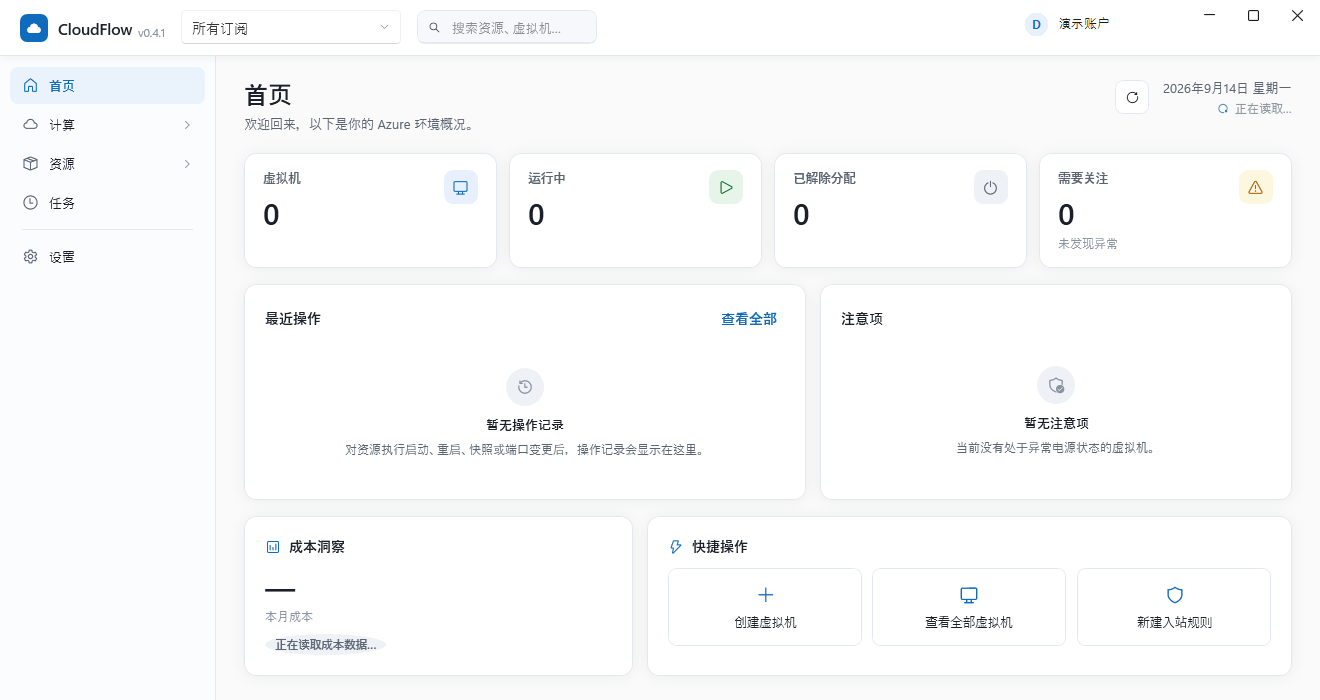
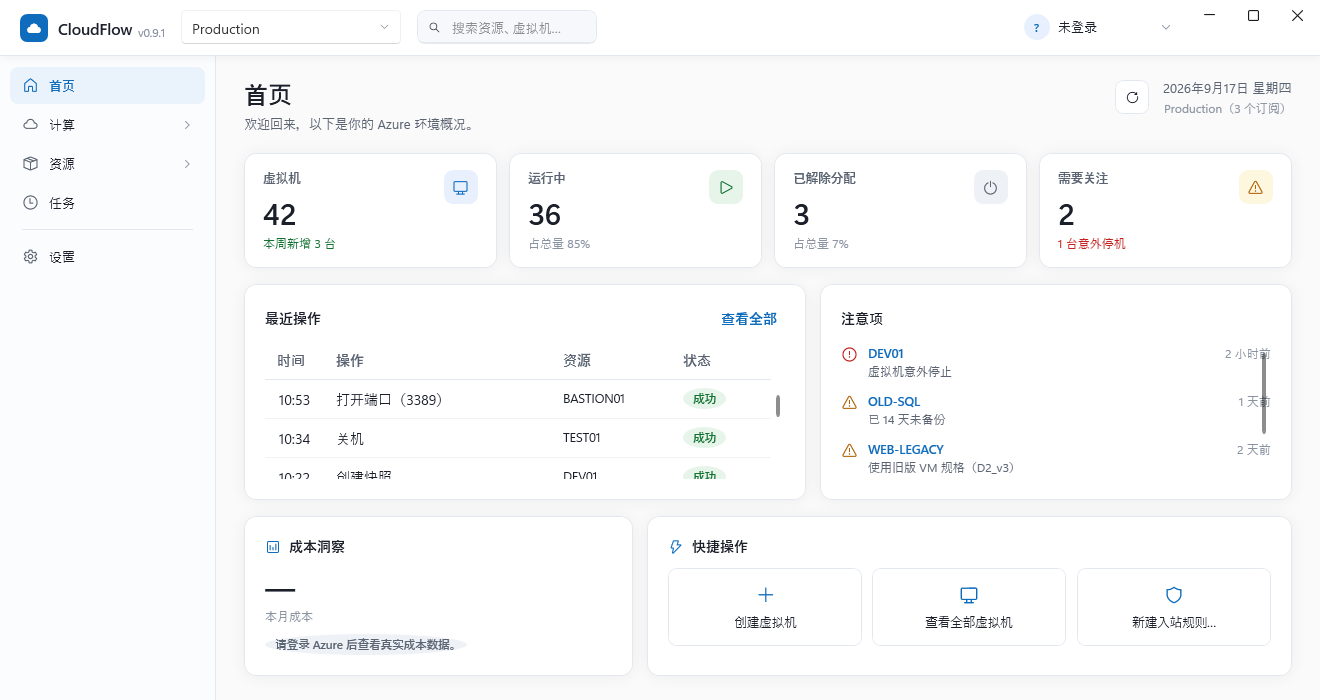
chore: 公开后的仓库卫生——安全政策、换行规范、当前版截图与注释脱敏
仓库转 Public 后补齐的建议项：

- 新增 SECURITY.md：支持版本、私密漏洞报告渠道（GitHub Security Advisory）、
  安全设计要点（凭据存储 / 日志脱敏 / 对外请求披露 / 写操作链路）供审计参考。
- 新增 .gitattributes：文本规范化 + 二进制资产防御性排除。
- README 截图更新为 v0.9.1 当前界面（冷启动演示模式抓图，无任何真实账户信息）。
- 注释脱敏：个人邮箱改为通用占位；真实虚拟机的 DNS FQDN、托管磁盘名改为
  vm-01 示例——这些是公开后有实际指向性的标识符，比裸资源名更值得清理。

diff --git a/src/CloudFlow.App/Views/MainWindow.xaml b/src/CloudFlow.App/Views/MainWindow.xaml
@@ -233,8 +233,8 @@
                                        HorizontalAlignment="Center" VerticalAlignment="Center" />
                         </Border>
                         <!-- MaxWidth 原来是 130：登录名换成邮箱地址后（见 AccountDisplayName 的
-                             注释），比展示名普遍长很多——真实反馈过 piaohongji@live.cn 能完整
-                             显示、piaohongji@outlook.com 却被截断，130px 装不下常见邮箱域名。
+                             注释），比展示名普遍长很多——真实反馈过 name@live.cn 能完整
+                             显示、longer.name@outlook.com 却被截断，130px 装不下常见邮箱域名。
                              调宽到 220，仍保留 TextTrimming 兜底极端情况（配合按钮上已有的
                              AccountToolTip 悬浮提示看完整值）。 -->
                         <TextBlock Text="{Binding AccountDisplayName}" FontSize="13"

diff --git a/src/CloudFlow.App/Views/VmDetailPage.xaml b/src/CloudFlow.App/Views/VmDetailPage.xaml
@@ -878,7 +878,7 @@
                                 </Style>
                             </DataGrid.RowStyle>
                             <DataGrid.Columns>
-                                <!-- 真实托管磁盘名很长（appscloud_OsDisk_1_382bc441bb9b462ea05cfba6e5a40650），
+                                <!-- 真实托管磁盘名很长（vm-01_OsDisk_1_<guid>），
                                      必须给省略号 + 完整名提示，否则用户无法确认是哪块盘 -->
                                 <DataGridTextColumn Header="名称" Binding="{Binding Name}" Width="200">
                                     <DataGridTextColumn.ElementStyle>

diff --git a/tests/CloudFlow.Azure.IntegrationTests/Compute/VmDetailInfoTests.cs b/tests/CloudFlow.Azure.IntegrationTests/Compute/VmDetailInfoTests.cs
@@ -33,7 +33,7 @@ public sealed class VmDetailInfoTests
             AutoShutdownEnabled = false
         };
 
-        // appscloud 实测：hibernationEnabled=false，门户显示「休眠 已禁用」
+        // vm-01 实测：hibernationEnabled=false，门户显示「休眠 已禁用」
         Assert.Equal("已禁用", info.HibernationText);
         Assert.Equal("已禁用", info.SecureBootText);
         Assert.Equal("已禁用", info.VTpmText);
@@ -127,7 +127,7 @@ public sealed class VmDetailInfoTests
     [Fact]
     public void 完整性监视在SDK与ARM都不返回时保持null()
     {
-        // Compute SDK 1.16.0 的 UefiSettings 只有 SecureBoot / VTpm；appscloud 实测 ARM 也不返回
+        // Compute SDK 1.16.0 的 UefiSettings 只有 SecureBoot / VTpm；vm-01 实测 ARM 也不返回
         // integrityMonitoringEnabled。所以这一项恒为 null，界面显示 "—" 并说明原因，
         // 不跟着门户把它当成"已禁用"。
         var info = new VmDetailInfo { SecurityType = "TrustedLaunch", SecureBootEnabled = true, VTpmEnabled = false };

diff --git a/src/CloudFlow.Azure/Compute/ArmVmDetailService.cs b/src/CloudFlow.Azure/Compute/ArmVmDetailService.cs
@@ -115,7 +115,7 @@ public sealed class ArmVmDetailService(
             SecureBootEnabled = securityProfile?.UefiSettings?.IsSecureBootEnabled,
             VTpmEnabled = securityProfile?.UefiSettings?.IsVirtualTpmEnabled,
             // Compute SDK 1.16.0 的 UefiSettings 只有 SecureBoot / VTpm 两个成员，没有完整性监视。
-            // 实测 ARM 也不返回该字段（appscloud 的 uefiSettings 只有那两项），所以这里保持 null，
+            // 实测 ARM 也不返回该字段（vm-01 的 uefiSettings 只有那两项），所以这里保持 null，
             // 界面显示 "—"。门户把它显示成"已禁用"是把缺失当 false，本应用不跟着编。
             IntegrityMonitoringEnabled = null,
 

diff --git a/tests/CloudFlow.App.Tests/Xaml/RowContextMenuAndThemeStaticTests.cs b/tests/CloudFlow.App.Tests/Xaml/RowContextMenuAndThemeStaticTests.cs
@@ -93,7 +93,7 @@ public sealed class RowContextMenuAndThemeStaticTests
     {
         var xaml = File.ReadAllText(Path.Combine(AppDirectory(), "Views", "MainWindow.xaml"));
 
-        // 真实反馈：piaohongji@live.cn 能完整显示、piaohongji@outlook.com 却被截断——
+        // 真实反馈：name@live.cn 能完整显示、longer.name@outlook.com 却被截断——
         // 原来的 MaxWidth="130" 装不下常见邮箱域名，且登录名（AccountDisplayName）现在固定
         // 显示的就是邮箱地址，不能再按"展示名通常很短"的旧假设留窄。
         var start = xaml.IndexOf("Binding AccountDisplayName", StringComparison.Ordinal);

diff --git a/src/Modules/CloudFlow.Modules.Compute/Models/VmDetailInfo.cs b/src/Modules/CloudFlow.Modules.Compute/Models/VmDetailInfo.cs
@@ -55,7 +55,7 @@ public sealed record VmDetailInfo
     public bool? VTpmEnabled { get; init; }
 
     /// <summary>
-    /// 完整性监视。**Compute SDK 与 ARM 当前都不返回这个字段**（实测：`appscloud` 的
+    /// 完整性监视。**Compute SDK 与 ARM 当前都不返回这个字段**（实测：`vm-01` 的
     /// uefiSettings 只有 secureBootEnabled 与 vTpmEnabled），因此这里恒为 null，
     /// 界面显示 "—"。门户把它显示成"已禁用"是把缺失当 false —— 本应用不跟着编。
     /// </summary>

diff --git a/src/CloudFlow.App/ViewModels/VmDetailViewModel.cs b/src/CloudFlow.App/ViewModels/VmDetailViewModel.cs
@@ -121,7 +121,7 @@ public partial class VmDetailViewModel : ObservableObject
         : $"{PublicIp} ({PublicIpName})";
 
     /// <summary>
-    /// 公网 IP 的 DNS 名称（如 <c>appscloud.koreacentral.cloudapp.azure.com</c>）。
+    /// 公网 IP 的 DNS 名称（如 <c>vm-01.koreacentral.cloudapp.azure.com</c>）。
     /// 只有配了 DNS 名称标签的公网 IP 才有值；为空时整行不显示 —— 这是常态，
     /// 不是"没读到"，所以不能渲染成 "—"。
     /// </summary>

diff --git a/src/Modules/CloudFlow.Modules.Network/Models/VmNetworkContext.cs b/src/Modules/CloudFlow.Modules.Network/Models/VmNetworkContext.cs
@@ -34,7 +34,7 @@ public sealed record VmNetworkContext
     public string? PublicIpName { get; init; }
 
     /// <summary>
-    /// 主网卡公网 IP 的完整限定域名（如 <c>appscloud.koreacentral.cloudapp.azure.com</c>）。
+    /// 主网卡公网 IP 的完整限定域名（如 <c>vm-01.koreacentral.cloudapp.azure.com</c>）。
     /// 只有配置了 DNS 名称标签的公网 IP 才有；未配置时为 null，此为该行**不显示**的依据，
     /// 不是"没读到"。
     /// </summary>

diff --git a/src/CloudFlow.Azure/Network/OutboundGraph.cs b/src/CloudFlow.Azure/Network/OutboundGraph.cs
@@ -188,7 +188,7 @@ public sealed record OutboundPublicIp
     public string? DnsLabel { get; init; }
 
     /// <summary>
-    /// 完整限定域名（<c>dnsSettings.fqdn</c>，如 <c>appscloud.koreacentral.cloudapp.azure.com</c>）。
+    /// 完整限定域名（<c>dnsSettings.fqdn</c>，如 <c>vm-01.koreacentral.cloudapp.azure.com</c>）。
     /// 与 <see cref="DnsLabel"/> 的区别是它带区域后缀，可直接用于连接。
     /// </summary>
     public string? Fqdn { get; init; }

diff --git a/src/Modules/CloudFlow.Modules.Network/Models/InboundPublicIp.cs b/src/Modules/CloudFlow.Modules.Network/Models/InboundPublicIp.cs
@@ -22,7 +22,7 @@ public sealed record InboundPublicIp
     public string? ResourceId { get; init; }
 
     /// <summary>
-    /// 公网 IP 资源的完整限定域名（如 <c>appscloud.koreacentral.cloudapp.azure.com</c>）。
+    /// 公网 IP 资源的完整限定域名（如 <c>vm-01.koreacentral.cloudapp.azure.com</c>）。
     /// 没配 DNS 名称标签时为 null —— 这是常态，不代表读取失败。
     /// </summary>
     public string? Fqdn { get; init; }

diff --git a/SECURITY.md b/SECURITY.md
@@ -1,0 +1,45 @@
+# 安全策略
+
+## 支持的版本
+
+| 版本 | 支持情况 |
+| --- | --- |
+| 0.9.x | ✅ 接收安全修复 |
+| < 0.9.0 | ❌ 请升级到最新版 |
+
+## 如何报告安全漏洞
+
+**请不要通过公开的 Issue / Discussion 报告安全问题。**
+
+优先使用 GitHub 的私密漏洞报告功能：仓库页 → **Security** → **Report a vulnerability**；
+或在联系时说明来意，由维护者提供一个私密沟通渠道。
+
+报告时请尽量包含：影响的版本、复现步骤、影响评估（能造成什么 / 不能造成什么）、
+如有可能请附最小复现或 PoC。维护者会在 **72 小时内**确认收到，并协商修复时间线与披露节奏
+（默认原则：修复发布后再公开细节）。
+
+## 安全设计要点（供审计参考）
+
+CloudFlow 是访问真实 Azure 订阅的桌面运维工具，以下是与安全直接相关的设计决策：
+
+- **不保存 Azure 密码**：工作/学校账户走 MSAL 公共客户端流（无 Client Secret），
+  Token 保存在本机 Windows 受保护存储；个人 Microsoft 账户走嵌入式 Azure CLI 设备码流程，
+  Token 隔离在各自独立的 Profile 目录内。
+- **SSH 凭据**：密码 / 私钥以 Windows 当前用户身份 DPAPI 加密后存放在本机保险库，
+  其他 Windows 账户与其他机器无法解密；明文只在连接期间存活，绝不写入日志 / 审计 / 异常消息。
+- **日志脱敏**：所有进入日志 / 异常消息 / 审计的 CLI 输出先经过脱敏
+  （`AzureCliOutputRedactor`），掩盖 JSON 形态的 token / secret / password 值。
+- **对外网络请求**：默认唯一的对外请求是「自动查询我的公网 IP」（api.ipify.org /
+  icanhazip.com），可在设置中关闭；除此之外应用不会向 Microsoft 或任何第三方发送使用数据。
+- **终端渲染**：本地资产经 WebView2 虚拟主机（https）加载，浏览器能力（右键菜单 / DevTools /
+  状态栏等）全部关闭以缩小攻击面。
+- **写操作链路**：所有写操作必须经 Operation Engine
+  （Validate → Impact → Permission → Execute → Verify → Audit），禁止按钮直连 Azure SDK；
+  高危操作（删除等）的确认不可被审批策略关闭。
+
+## 范围界定
+
+- 本仓库**不包含**任何真实 ClientId / TenantId / 凭据 / 订阅数据；`appsettings.json`
+  只存在于本地（已 gitignore），模板见 `appsettings.example.json`。
+- 仓库**不包含**设计过程文档（范围演进、内部验证记录、UI 迭代），它们存放在维护者的
+  私有工作区。
